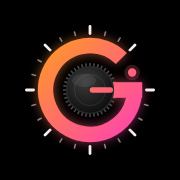
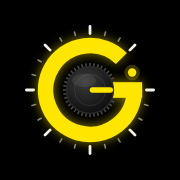
Ícone do app no knob amarelo
Claude-Session: https://claude.ai/code/session_01HQyRd2TLVRPecVXY15TYmr

Changed region(s): [[0.1944, 0.1944, 0.8056, 0.8056]]

diff --git a/sw.js b/sw.js
@@ -1,5 +1,5 @@
 // G-STUDIO: guarda o app no aparelho para abrir mesmo sem internet
-const CACHE='gstudio-v37';
+const CACHE='gstudio-v38';
 const CORE=['./','./index.html','./manifest.webmanifest','./icon-180.png','./icon-192.png','./icon-512.png','./smp/clap909.wav','./smp/conga_hi.wav','./smp/conga_lo.wav','./smp/conga_mid.wav','./smp/crash.wav','./smp/hat_c.wav','./smp/hat_o.wav','./smp/letsgo.wav','./smp/palma.wav','./smp/ride.wav'];
 self.addEventListener('install',e=>{e.waitUntil(caches.open(CACHE).then(c=>c.addAll(CORE)));self.skipWaiting()});
 self.addEventListener('activate',e=>{e.waitUntil(caches.keys().then(ks=>Promise.all(ks.filter(k=>k!==CACHE).map(k=>caches.delete(k)))).then(()=>self.clients.claim()))});

diff --git a/index.html b/index.html
@@ -9,8 +9,8 @@
 <meta name="apple-mobile-web-app-title" content="G-STUDIO">
 <meta name="theme-color" content="#000000">
 <link rel="manifest" href="manifest.webmanifest">
-<link rel="apple-touch-icon" href="icon-180.png">
-<link rel="icon" type="image/png" href="icon-192.png">
+<link rel="apple-touch-icon" href="icon-180.png?v=2">
+<link rel="icon" type="image/png" href="icon-192.png?v=2">
 <title>G-STUDIO</title>
 <link rel="preconnect" href="https://fonts.googleapis.com">
 <link rel="preconnect" href="https://fonts.gstatic.com" crossorigin>
